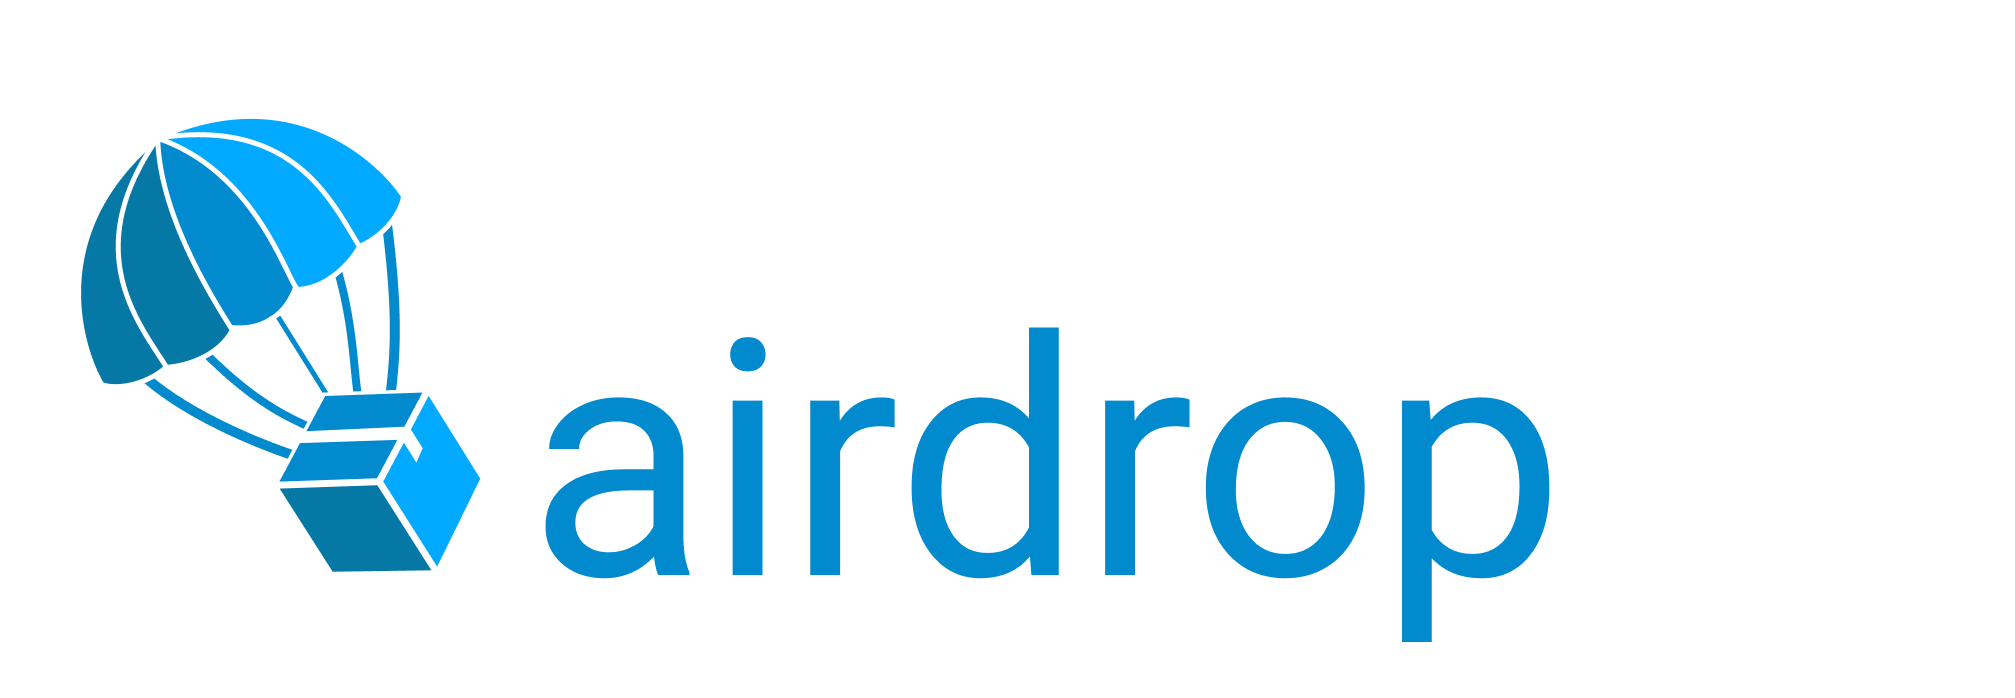
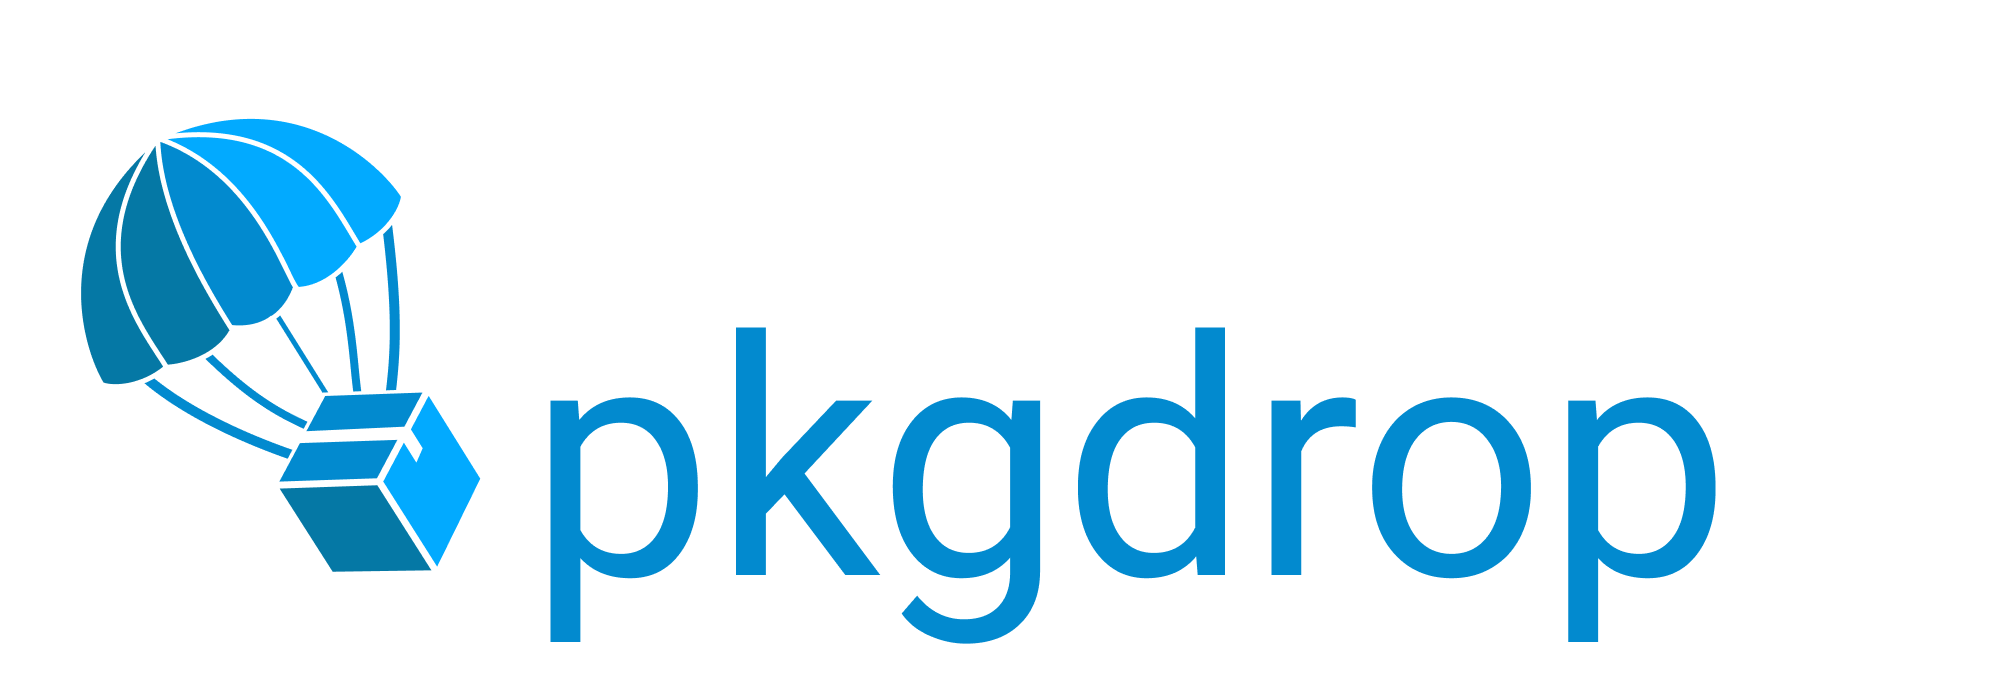
Fix image and changelog

Changed region(s): [[0.2462, 0.4513, 0.8615, 0.9327], [0.3385, 0.5115, 0.4, 0.5716], [0.3692, 0.4513, 0.4, 0.4814]]

diff --git a/CHANGELOG.md b/CHANGELOG.md
@@ -10,9 +10,7 @@ _(none)_
 * Default response to `init` confirm is yes
 * Added rollup-plugin-commonjs plugin
 * Support private packages
-* Rename [0mNo packages specified[0m
-[32mDone! [90m[0.01 s][32m[39m
-[32m[39m
+* Rename as `pkgdrop`
 
 ## 1.0.0 (2019-04-19)
 _(none)_
